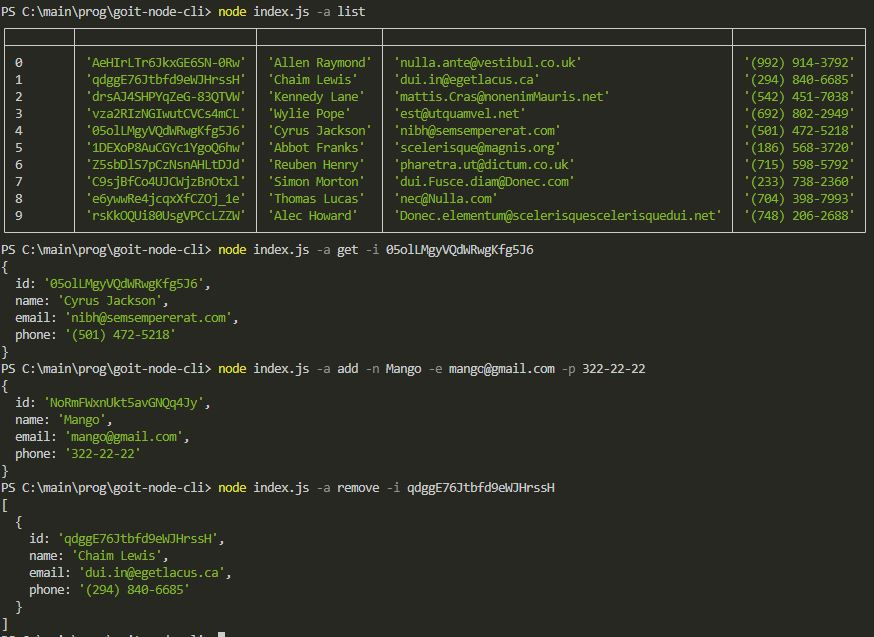
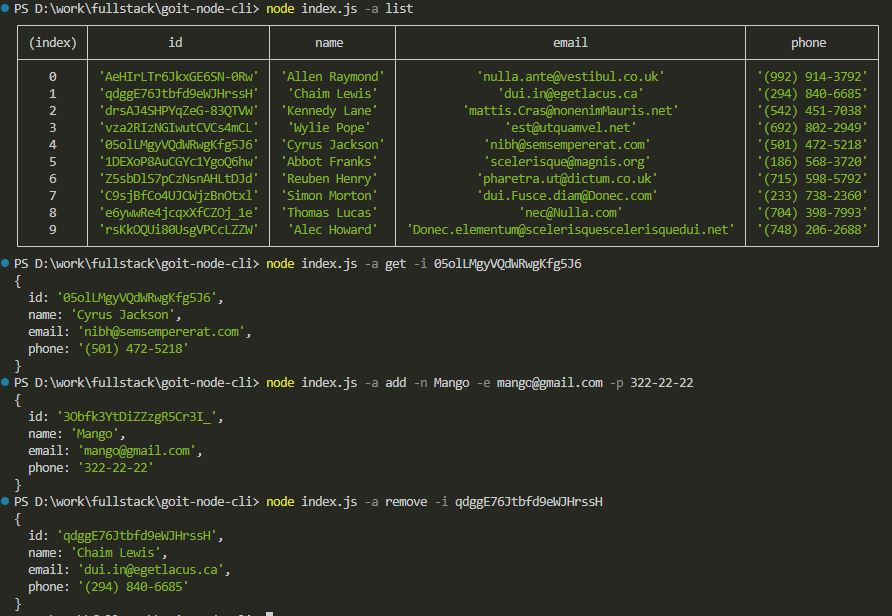
fix func removeContact

diff --git a/contacts.js b/contacts.js
@@ -40,7 +40,7 @@ export async function removeContact(contactId) {
     return null;
   }
 
-  const removedContact = contacts.splice(index, 1);
+  const [removedContact] = contacts.splice(index, 1);
   writeContacts(contacts);
   return removedContact;
 }
